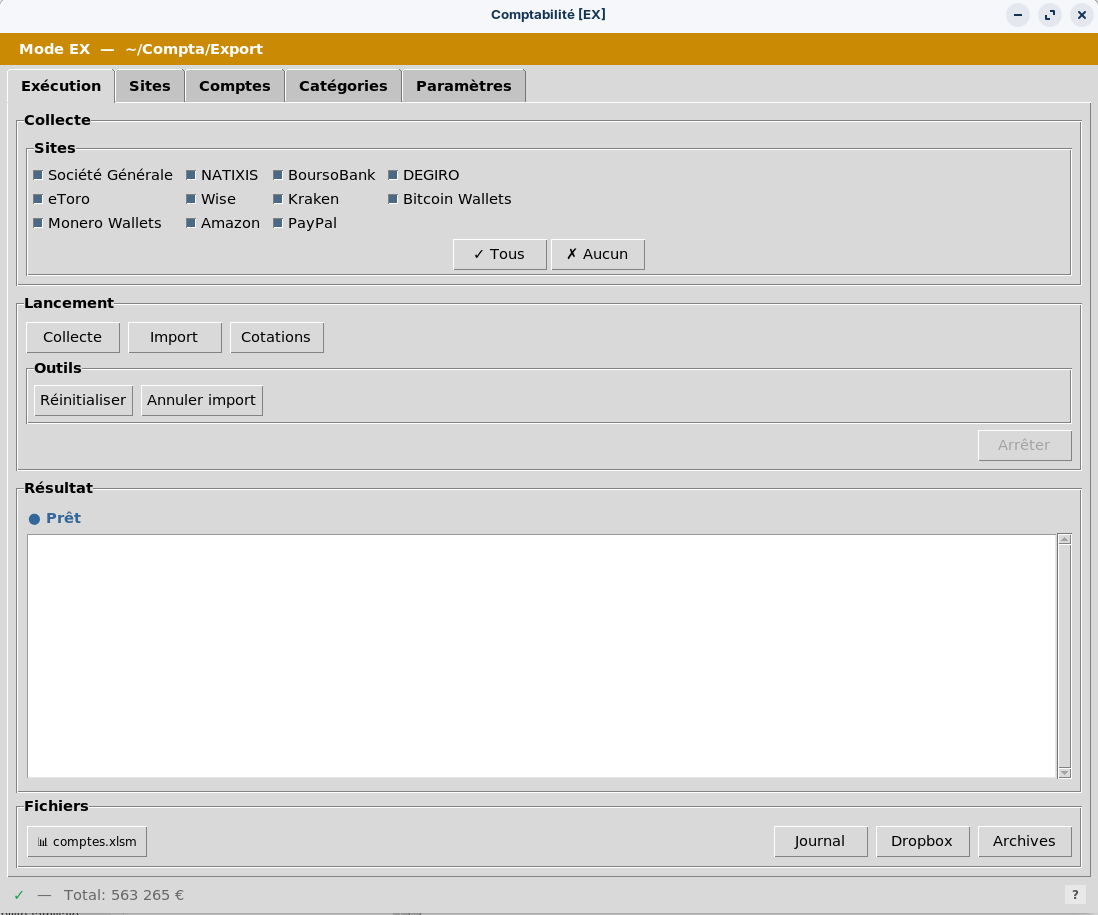
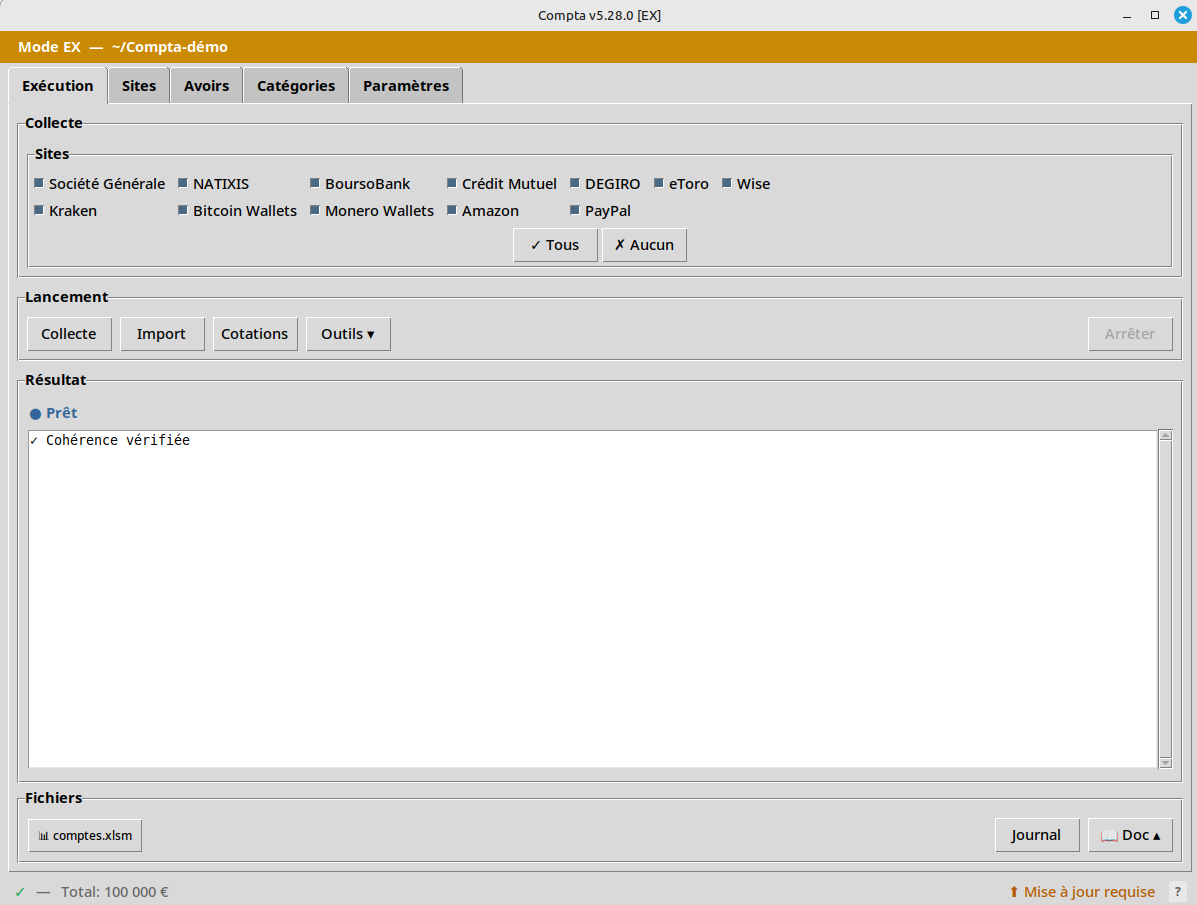
v5.28.0 — app renommée « Comptabilité » → « Compta » (#189) + canal actions manuelles (re-pin Dock macOS, indicateur persistant) ; capture de démarrage réanonymisée (#190)

Changed region(s): [[0.0, 0.0309, 1.0, 1.0], [0.4335, 0.0, 0.5574, 0.0309], [0.9599, 0.0, 1.0, 0.0309]]

diff --git a/cpt_gui.py b/cpt_gui.py
@@ -67,6 +67,11 @@ DEFAULT_ACCOUNTS = SCRIPT_DIR / 'config_accounts.json'
 # journal.log = même fichier que collecte/import (BASE_DIR/logs) → un seul fil
 # narratif GUI↔collecte↔upgrade, lisible en post-mortem à distance (juf).
 _LOGS_DIR = inc_mode.get_base_dir() / 'logs'
+# Actions manuelles post-upgrade (#189) : geste que le code ne peut pas faire (ex.
+# re-épingler le Dock macOS après renommage de bundle). Écrit par inc_install.sh
+# (_register_manual_action), affiché en barre de statut jusqu'à acquittement. Jamais
+# peuplé sur Linux (le .desktop se réécrit en place) → indicateur transparent.
+_MANUAL_ACTIONS_FILE = _LOGS_DIR / 'manual_actions'
 try:
     _LOGS_DIR.mkdir(parents=True, exist_ok=True)
 except Exception:
@@ -223,7 +228,7 @@ class ConfigGUI(AccountsMixin, BudgetMixin, CategoriesMixin, DaemonClientMixin,
         self._mode_accent = accent
         self.root = tk.Tk(className=wm_class)
         from inc_excel_schema import APP_VERSION
-        self.root.title(f'Comptabilité v{APP_VERSION} [{self._mode_label}]')
+        self.root.title(f'Compta v{APP_VERSION} [{self._mode_label}]')
         self.root.geometry('1200x880')
         self.root.minsize(1000, 600)
         self.root.report_callback_exception = self._handle_tk_exception
@@ -432,6 +437,21 @@ class ConfigGUI(AccountsMixin, BudgetMixin, CategoriesMixin, DaemonClientMixin,
                                         foreground='#b35a00')
         self._update_label.bind('<Button-1>', self._on_update_clicked)
 
+        # Indicateur « action manuelle » (#189) — masqué par défaut, packé à droite
+        # si `logs/manual_actions` est non vide (geste post-upgrade non-automatisable,
+        # ex. re-pin Dock macOS). Persistant jusqu'à acquittement. Transparent Linux
+        # (le fichier n'y est jamais écrit).
+        self._manual_action_var = tk.StringVar(value='')
+        # Couleur DISTINCTE de l'indicateur MàJ (#b35a00 orange) — les deux peuvent
+        # coexister (ex. « MàJ échouée » + re-pin en attente), tous deux ⚠ ; le bleu
+        # sépare « geste manuel à faire » de « mise à jour ». Hors palette Statut
+        # (vert/orange/rouge) pour ne pas parasiter sa sémantique de cohérence. #189.
+        self._manual_action_label = ttk.Label(status_frame,
+                                               textvariable=self._manual_action_var,
+                                               style='Hint.TLabel', cursor='hand2',
+                                               foreground='#1a6b8a')
+        self._manual_action_label.bind('<Button-1>', self._on_manual_action_clicked)
+
         # Lecture Contrôles A1 (synthèse) au démarrage
         if self.xlsx_path:
             self._refresh_status_bar()
@@ -448,6 +468,10 @@ class ConfigGUI(AccountsMixin, BudgetMixin, CategoriesMixin, DaemonClientMixin,
         # Vérification « mise à jour » (#181) — différée, best-effort (le poll
         # distant est async : ne bloque jamais le démarrage).
         self.root.after(700, self._start_update_check)
+
+        # Actions manuelles en attente (#189) — indicateur persistant, indépendant
+        # de la MàJ (peuvent coexister). Simple lecture de fichier ; no-op si vide.
+        self.root.after(500, self._check_manual_actions)
 
         # Workarounds bug Tk Linux X11 :
         # (1) clic externe (autre app) → polling focus_displayof() ferme menus
@@ -1413,8 +1437,8 @@ class ConfigGUI(AccountsMixin, BudgetMixin, CategoriesMixin, DaemonClientMixin,
 
         Limité à `check_env()` (présence du wrapper python3-uno). Les
         exceptions daemon sont désormais loggées dans `logs/journal.log` via
-        inc_logging — accessible via le menu Outils/journal — plutôt que
-        rejouées en popup intrusif au démarrage suivant.
+        inc_logging — accessible via le bouton « Journal » (onglet Exécution) —
+        plutôt que rejouées en popup intrusif au démarrage suivant.
         """
         # Forcer la fenêtre au premier plan (focus issue Mac)
         try:
@@ -1524,9 +1548,9 @@ class ConfigGUI(AccountsMixin, BudgetMixin, CategoriesMixin, DaemonClientMixin,
         if self._update_reason == 'failed':
             if not messagebox.askyesno(
                     'Mise à jour',
-                    'La dernière mise à jour a échoué (détails : menu Outils → '
-                    'journal, et logs/upgrade.log).\n\nRelancer la mise à jour '
-                    'maintenant ?', parent=self.root):
+                    'La dernière mise à jour a échoué (détails : bouton '
+                    '« Journal » de l\'onglet Exécution, et logs/upgrade.log).'
+                    '\n\nRelancer la mise à jour maintenant ?', parent=self.root):
                 return
         else:
             if not messagebox.askyesno(
@@ -1566,6 +1590,49 @@ class ConfigGUI(AccountsMixin, BudgetMixin, CategoriesMixin, DaemonClientMixin,
             return
         self._closing_for_upgrade = True
         self._on_close()
+
+    # --- Actions manuelles post-upgrade (#189) ---------------------------
+    def _read_manual_actions(self):
+        """Actions manuelles en attente (une par ligne dans `logs/manual_actions`).
+        Retourne [] si le fichier est absent/vide → indicateur masqué (cas Linux)."""
+        try:
+            if _MANUAL_ACTIONS_FILE.exists():
+                return [ln.strip() for ln in
+                        _MANUAL_ACTIONS_FILE.read_text(encoding='utf-8').splitlines()
+                        if ln.strip()]
+        except Exception:
+            pass
+        return []
+
+    def _check_manual_actions(self):
+        """Au démarrage : indicateur persistant si des actions sont en attente.
+        Simple lecture de fichier (pas une sonde de cohérence) ; no-op si vide."""
+        actions = self._read_manual_actions()
+        if not actions:
+            return
+        noun = 'action à faire' if len(actions) == 1 else 'actions à faire'
+        self._manual_action_var.set(f'  ⚠ {len(actions)} {noun}  ')
+        try:
+            self._manual_action_label.pack(side='right', padx=(0, 5))
+        except Exception:
+            pass
+
+    def _on_manual_action_clicked(self, event=None):
+        """Clic → liste les actions ; « Oui » = acquitte (efface le fichier +
+        masque l'indicateur), « Non » = laisse en attente (persistant)."""
+        actions = self._read_manual_actions()
+        if not actions:
+            self._manual_action_label.pack_forget()
+            return
+        body = ('À faire après la dernière mise à jour :\n\n'
+                + '\n\n'.join(f'• {a}' for a in actions)
+                + '\n\nMarquer comme fait ?')
+        if messagebox.askyesno('Action à faire', body, parent=self.root):
+            try:
+                _MANUAL_ACTIONS_FILE.unlink()
+            except Exception:
+                pass
+            self._manual_action_label.pack_forget()
 
     # --- Signaler un problème (#187) -------------------------------------
     def _on_bugreport_clicked(self, event=None):
@@ -1718,7 +1785,7 @@ class ConfigGUI(AccountsMixin, BudgetMixin, CategoriesMixin, DaemonClientMixin,
 def main():
     import argparse
     parser = argparse.ArgumentParser(
-        description='GUI Comptabilité')
+        description='GUI Compta')
     parser.add_argument('--config', '-c', default=str(DEFAULT_CONFIG),
                         help=f'Chemin config.ini (défaut: {DEFAULT_CONFIG})')
     parser.add_argument('--json', '-j', default=str(DEFAULT_JSON),

diff --git a/upgrade.py b/upgrade.py
@@ -327,7 +327,7 @@ def _classeur_busy(xlsx):
     # shell qui porte cette commande pgrep dans sa propre ligne.
     rc, out = _run_bash("pgrep -f '[c]pt_gui.py'")
     if rc == 0 and out.strip():
-        reasons.append('application Comptabilité (cpt_gui) en cours')
+        reasons.append('application Compta (cpt_gui) en cours')
     return reasons
 
 
@@ -898,6 +898,20 @@ def main():
         # apply_benign (write_config_schema, run OK) ; le composant Classeur par son
         # outil de migration (NR dans le .xlsm). Plus de stamp d'app (honored_version
         # retiré) : l'app n'a pas de marqueur, git porte sa version.
+
+    # Actions manuelles (#189) : geste que l'upgrade ne peut pas faire (ex. re-pin
+    # Dock macOS après renommage de bundle). Écrites par inc_install.sh dans
+    # logs/manual_actions ; rappelées ici en fin de run (la GUI a son indicateur).
+    try:
+        _maf = BASE_DIR / 'logs' / 'manual_actions'
+        _acts = ([ln.strip() for ln in _maf.read_text(encoding='utf-8').splitlines()
+                  if ln.strip()] if _maf.exists() else [])
+    except Exception:
+        _acts = []
+    if _acts:
+        print(f'\n{YELLOW}⚠ Action(s) manuelle(s) à effectuer :{NC}')
+        for _a in _acts:
+            print(f'   • {_a}')
 
     return 1 if (failed or mig.get('blocked')) else 0
 

diff --git a/upgrade_launcher.py b/upgrade_launcher.py
@@ -222,13 +222,13 @@ def _run_with_splash(args):
         return
 
     root = tk.Tk()
-    root.title('Mise à jour de Comptabilité')
+    root.title('Mise à jour de Compta')
     root.resizable(False, False)
     root.protocol('WM_DELETE_WINDOW', lambda: None)   # infermable tant que non fini
 
     frame = ttk.Frame(root, padding=20)
     frame.pack(fill='both', expand=True)
-    ttk.Label(frame, text='Mise à jour de Comptabilité',
+    ttk.Label(frame, text='Mise à jour de Compta',
               font=('TkDefaultFont', 12, 'bold')).pack(pady=(0, 10))
     status_var = tk.StringVar(value='Préparation…')
     ttk.Label(frame, textvariable=status_var, width=48).pack(pady=(0, 12))

diff --git a/inc_excel_schema.py b/inc_excel_schema.py
@@ -14,7 +14,7 @@ from typing import Optional
 
 
 # Version de l'application — incrémentée à chaque livraison
-APP_VERSION = "5.27.0"
+APP_VERSION = "5.28.0"
 
 # Version du schéma classeur — incrémentée à chaque changement de structure
 # (named ranges, colonnes, formules). Le classeur doit avoir un named range

diff --git a/Compta_portage.md b/Compta_portage.md
@@ -87,7 +87,7 @@ Sur Mac, deux interpréteurs Python distincts interviennent : le **Python applic
 
 ### Lancement
 
-L'installeur crée `~/Applications/Comptabilité.app` (bundle macOS, icône ICNS) — épinglable au Dock.
+L'installeur crée `~/Applications/Compta.app` (bundle macOS, icône ICNS) — épinglable au Dock.
 
 Ligne de commande :
 ```bash
@@ -112,7 +112,7 @@ cd ~/Compta && ./cpt_gui.py
 
   Recharger avec `source ~/.zshrc` (resp. `.bash_profile`) ou ouvrir un nouveau terminal.
 
-  NB : le **lancement via le Dock** (`~/Applications/Comptabilité.app`) n'est **pas** concerné — le launcher du bundle injecte déjà ce PATH. La note ci-dessus ne vaut que pour le lancement en ligne de commande (CLI / shebangs `python3-uno`).
+  NB : le **lancement via le Dock** (`~/Applications/Compta.app`) n'est **pas** concerné — le launcher du bundle injecte déjà ce PATH. La note ci-dessus ne vaut que pour le lancement en ligne de commande (CLI / shebangs `python3-uno`).
 
 **Usage quotidien :**
 
@@ -211,7 +211,7 @@ Pour lancer l'application depuis le bureau Windows sans ouvrir manuellement un t
    ```
    wsl.exe -d Ubuntu-24.04 -- bash -lc "cd ~/Compta && ./cpt_gui.py"
    ```
-3. Nommer le raccourci **Comptabilité**
+3. Nommer le raccourci **Compta**
 4. Clic droit → **Épingler à la barre des tâches**
 5. Optionnel : clic droit sur le raccourci → **Propriétés** → champ "Exécuter" → **Réduite** (pour masquer le terminal)
 

diff --git a/CHANGELOG.md b/CHANGELOG.md
@@ -9,6 +9,14 @@ Chronique des versions de l'app, orientée utilisateur. Les changements internes
 
 Les trois derniers sont spécifiques au mode assisté ; 📘 concerne le mode classeur.
 
+## v5.28.0
+| 2026-08-02 | L'application s'appelle désormais « Compta » (au lieu de « Comptabilité »). |
+| ---------- | -------------------------------------------------------------------------- |
+
+**Détail :**
+
+- **Renommage « Comptabilité » → « Compta »** — nom unifié avec le projet : titre de la fenêtre, raccourci de bureau, et sur **macOS** le bundle `Compta.app`. Sur **Linux/WSL**, le raccourci se met à jour tout seul. Sur **macOS**, l'ancien `Comptabilité.app` est retiré au profit de `Compta.app` : après la mise à jour, **re-épingle « Compta » au Dock** (Finder → Applications) — l'App te le rappelle par un indicateur « action à faire » en barre de statut, jusqu'à ce que ce soit fait.
+
 ## v5.27.0
 | 2026-07-29 | Nouveau : bouton « Signaler un problème » (installations configurées). |
 | ---------- | --------------------------------------------------------------------- |
